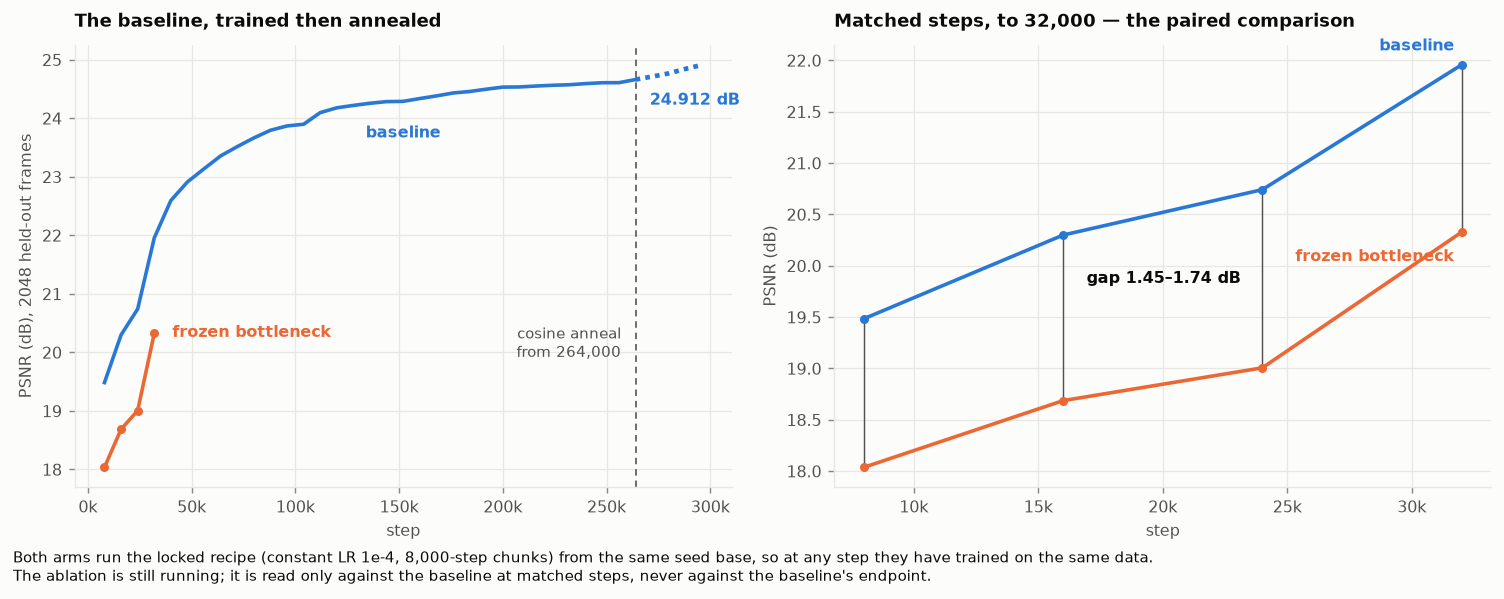
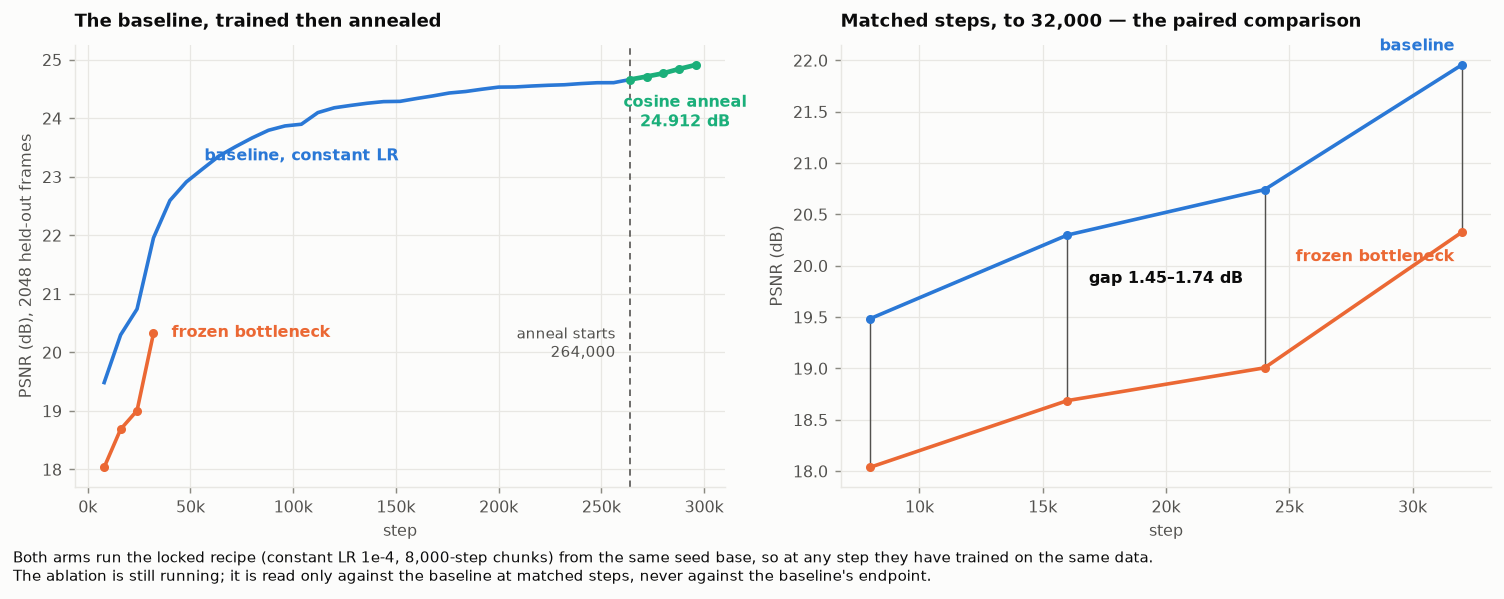
Give the anneal its own colour so it can be seen
It shared the baseline's colour, distinguished only by line style, on the
argument that the anneal is a phase of that run rather than a third arm.
The argument was right and the figure was useless: against 264,000 steps
of solid line, a 32,000-step dotted tail is invisible.

Now palette slot 3, with its own direct label. That it is a phase of the
baseline and not a separate arm is said by the label and the marked
transition at 264,000 instead of by hue.

diff --git a/postprocessing/plot_arms.py b/postprocessing/plot_arms.py
@@ -1,10 +1,11 @@
 """Figure: the baseline's full trajectory, and the first paired comparison against it.
 
-TWO ENTITIES, NOT THREE CURVES. The constant-LR stretch and the cosine anneal are one run --
-`baseline_v2`, continued into its own output directory -- so they share a colour and are separated
-by line style and a marked transition, not by hue. The frozen-bottleneck ablation is a different
-model and carries its own colour. Colouring the anneal as a third entity would imply three things
-were compared; two were.
+THREE CURVES. The constant-LR stretch and the cosine anneal are one run -- `baseline_v2`, continued
+into its own output directory -- and were first drawn in one colour separated by line style, on the
+argument that they are one entity and only two things were compared. That was correct and useless:
+against 264,000 steps of solid line, a 32,000-step dotted tail is invisible. The anneal now carries
+its own colour. It is still a phase of the baseline rather than a third arm, which the label and the
+marked transition say instead.
 
 WHY TWO PANELS. The ablation has run 32,000 steps against the baseline's 296,000. On one axis it is
 a stub in the corner and the comparison is invisible, so the right panel re-plots the matched range
@@ -27,6 +28,7 @@ from lib import GRID, INK, INK_SOFT, SURFACE
 
 # Colour follows the entity: the baseline keeps slot 1 wherever it appears, the ablation slot 2.
 C_BASE = "#2a78d6"
+C_ANNEAL = "#1baf7a"
 C_FROZEN = "#eb6834"
 
 RUNS = {"baseline": "ablation_baseline", "frozen": "ablation_frozen_bneck"}
@@ -73,14 +75,15 @@ def build():
         ax.plot(
             [s for s, _ in ann],
             [p for _, p in ann],
-            color=C_BASE,
+            color=C_ANNEAL,
             linewidth=2.6,
-            linestyle=(0, (1, 1.1)),
+            marker="o",
+            markersize=4,
             zorder=4,
         )
         ax.axvline(cut, color=INK_SOFT, linewidth=0.9, linestyle=(0, (4, 3)), zorder=1)
         ax.annotate(
-            f"cosine anneal\nfrom {cut:,}",
+            f"anneal starts\n{cut:,}",
             xy=(cut, base[0][1] + 0.35),
             xytext=(-8, 0),
             textcoords="offset points",
@@ -90,14 +93,14 @@ def build():
             color=INK_SOFT,
         )
         ax.annotate(
-            f"{ann[-1][1]:.3f} dB",
+            f"cosine anneal\n{ann[-1][1]:.3f} dB",
             xy=(ann[-1][0], ann[-1][1]),
-            xytext=(-4, -22),
+            xytext=(-6, -34),
             textcoords="offset points",
             ha="center",
             fontsize=9,
             fontweight="bold",
-            color=C_BASE,
+            color=C_ANNEAL,
         )
     if frozen:
         ax.plot(
@@ -119,8 +122,8 @@ def build():
             fontweight="bold",
         )
     ax.annotate(
-        "baseline",
-        xy=(base[len(base) // 2][0], base[len(base) // 2][1]),
+        "baseline, constant LR",
+        xy=(base[len(base) // 3][0], base[len(base) // 3][1]),
         xytext=(0, -20),
         textcoords="offset points",
         ha="center",
